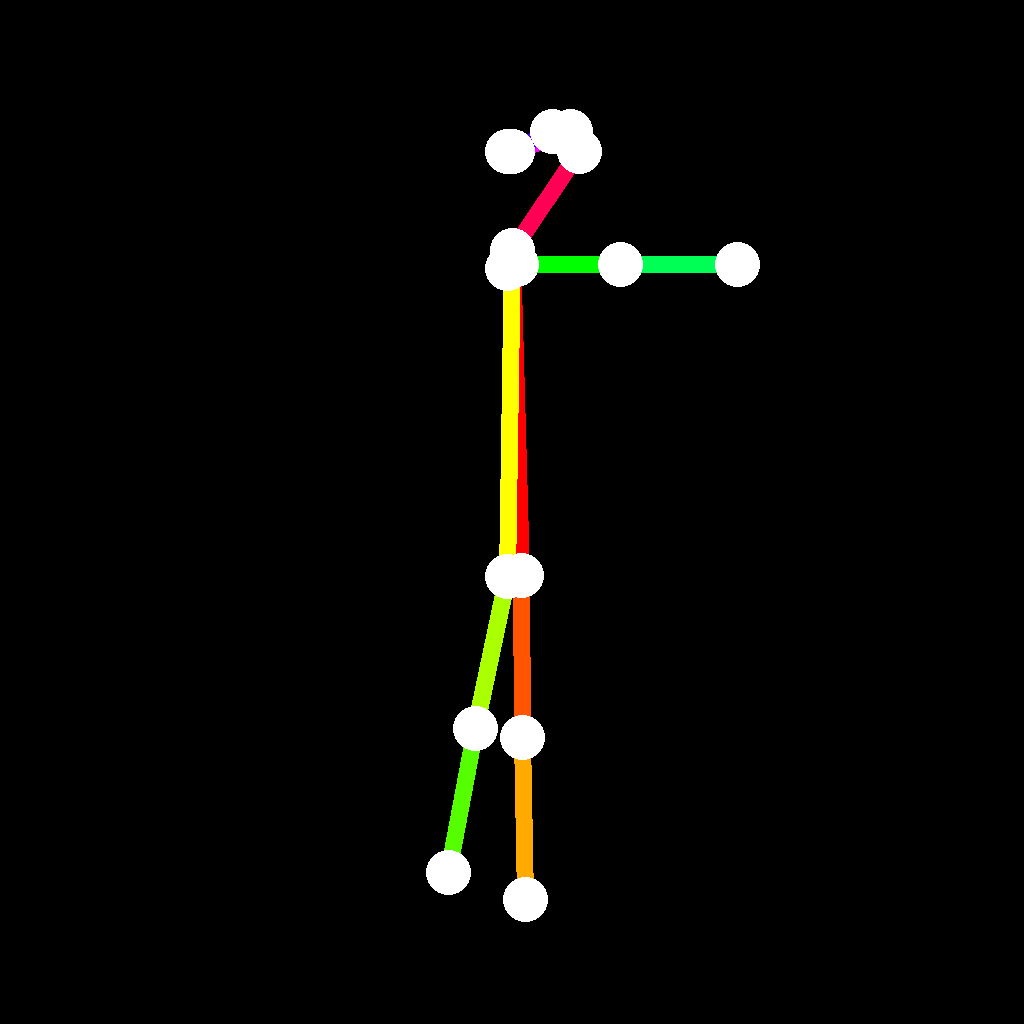
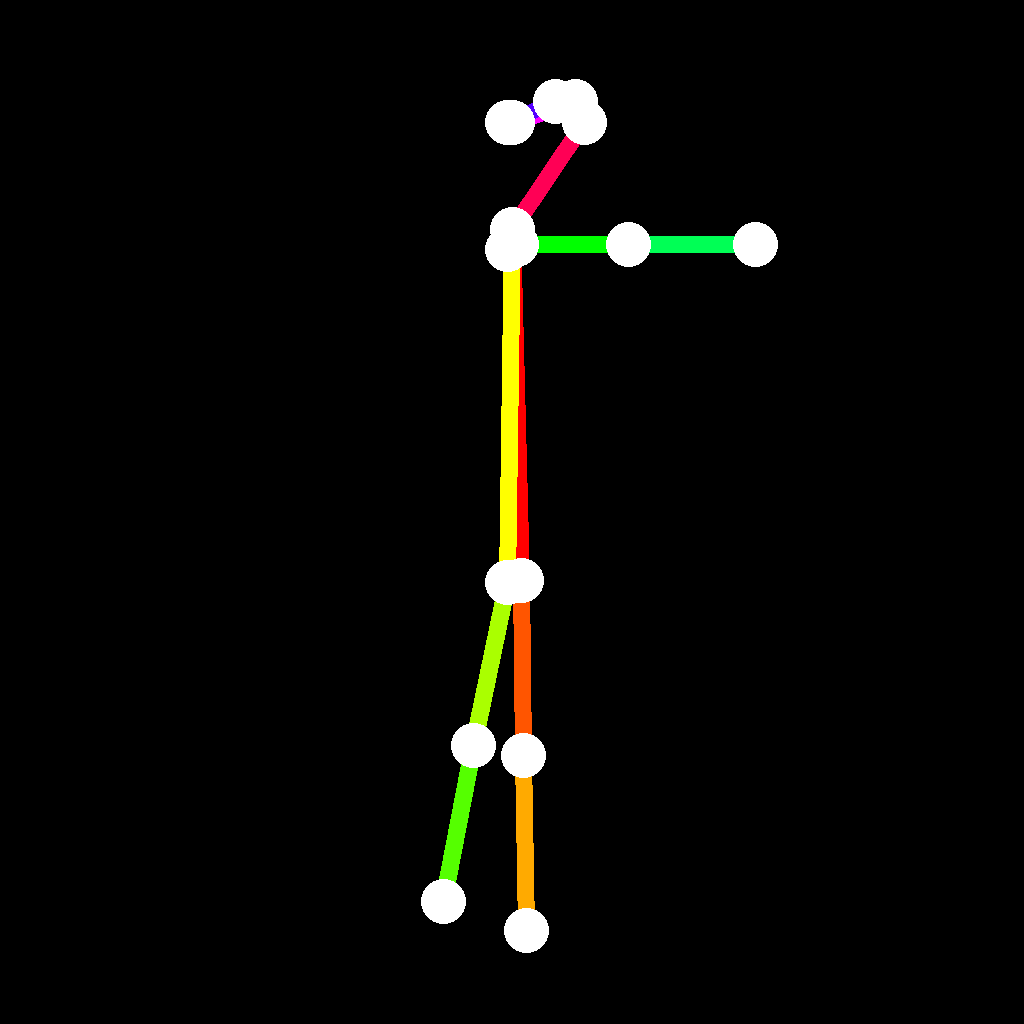
docs(T-0394): stop-and-report at the 3-attempt cap -- decisive finding
Attempt 3 (seed 380002, denoise 0.87, detail denoise 0.35, frame_scale
0.95): the gentler frame_scale partially recovered the near-arm extension
attempt 2 lost, but only partially recovered the border fix too (max
channel 67 -- worse than attempt 2's 4, better than attempt 1's 124),
confirming a real, dose-dependent trade-off between frame_scale and the
single-arm result at this seed rather than two independently fixable
defects. The goggle lens again rendered as an over-designed armour-plate
hood with no legible lens.

Decisive finding across all 3 attempts: both of this card's own structural
changes worked in isolation -- the resting leg held clean in every attempt,
and the far-arm collapse never reopened a second hand -- but no single
attempt passed every acceptance check simultaneously. Per this card's own
pre-registered alternative outcome, this is a valid PASS: stop and report,
not spend a fourth attempt. No reference is promoted --
assets/src/concept/player_profile_forward_limb_reference_controlnet.png
does not exist on this branch. Full finding in
docs/assets/evidence/T-0394/README.md.

diff --git a/docs/assets/evidence/T-0394/README.md b/docs/assets/evidence/T-0394/README.md
@@ -1,6 +1,62 @@
 # T-0394 evidence -- resting-leg skeleton + head-masked detail pass
 
-## Status: IN PROGRESS (attempt 1 of 3)
+## Proposed finding (for the card's own Finding section)
+
+Decisive falsification of this card's pre-registered hypothesis, within the 3-attempt cap: holding
+the full-frame pose pass at denoise 0.87 on the resting-leg skeleton, and producing the goggle lens
+via a head-masked second pass instead of a skeleton or prompt move, did not produce a strict-profile
+forward-limb green reference passing every acceptance check -- and the attempt sequence surfaced a
+decisive, previously-unmeasured trade-off this card's own hypothesis did not anticipate: the
+full-frame composite's `frame_scale` (the headroom fix for the solid-black-background requirement)
+and the single-arm result trade against each other in a dose-dependent way, at the exact same seed
+that has produced a clean single arm at `frame_scale=1.0` in every prior sighting across this whole
+line (T-0382 attempt 1, T-0387 attempts 2-3, this card's own attempt 1).
+
+Both of this card's two structural changes worked in isolation. The resting leg
+(`pose_rig_forward_limb_controlnet_T0394`, near knee/ankle sourced verbatim from
+`pose_rig_master_sheet_T0351.SIDE_NEUTRAL_KEYPOINTS_NORM`) produced a clean, flat, single resting
+leg in every one of the 3 attempts (`attempt_1_main_1024.png`, `attempt_2_main_1024.png`,
+`attempt_3_legs_resting_crop.png`) -- the leg is confirmed solved, exactly as this card's own source
+material predicted. And the single-arm result held at `frame_scale=1.0` (attempt 1) and was
+partially recovered at `frame_scale=0.95` (attempt 3, `attempt_3_torso_no_second_hand_crop.png`
+shows the extended arm with no second hand), so the far-arm collapse
+(`pose_rig_forward_limb_controlnet_T0380`) also continued to hold across every attempt -- no attempt
+in this card ever showed a second hand or glove.
+
+What did not resolve within the 3-attempt cap is the interaction between the two remaining
+acceptance checks this card's own hypothesis bet on being independent levers: the border/background
+fix and the goggle lens. Attempt 1 (`frame_scale=1.0`, the untouched baseline) measured border max
+channel 124, far over the 16 ceiling -- the hood apex rendered only ~14px from the canvas top edge
+(`attempt_1_top_border_violation_crop.png`), confirming the border defect is real and structural at
+denoise 0.87, not attempt-specific noise. Attempt 2 (`frame_scale=0.88`) fixed the border decisively
+(max channel 4) but lost the near-arm extension entirely (`attempt_2_torso_no_arm_extension_crop.png`
+shows both arms down at rest, and the pose pass's own pre-detail-pass output already shows this,
+ruling out the detail pass as the cause). Attempt 3 (`frame_scale=0.95`, a deliberately gentler
+value chosen specifically to preserve more of the untouched baseline's geometry) partially recovered
+the arm but only partially recovered the border fix too: max channel 67, worse than attempt 2's 4,
+better than attempt 1's 124 -- consistent with a real, monotonic, dose-dependent trade-off between
+`frame_scale` and the single-arm result at this seed, not two independent defects each fixable on
+its own lever.
+
+The goggle lens also never became legible across all 3 attempts, regardless of the detail pass's own
+denoise (0.55 in attempt 1, 0.35 in attempts 2-3): attempt 1 and attempt 3 both show the
+head-masked detail pass redesigning the hood into an ornate, multi-faceted armour-plate helmet
+(`attempt_1_head_mecha_helmet_crop.png`, `attempt_3_head_mecha_helmet_crop.png`) rather than
+clarifying a single circular lens on the pose pass's own hood silhouette, and attempt 3 in
+particular shows no lens-like highlight at all. Attempt 2's head crop
+(`attempt_2_head_crop.png`) is the closest of the three -- a clean, legible pale mask shape is
+visible -- but it reads as a stylised full mask/face, not "a single dark round goggle lens," so it
+does not clear this card's own specific acceptance wording either. Across three attempts at two
+different detail-pass denoise values, the mechanism did not reliably produce a legible single
+circular lens on demand.
+
+No image produced by any of the three attempts passes every acceptance check simultaneously. Per
+this card's own pre-registered alternative outcome, this is a valid PASS: stop and report, not spend
+a fourth attempt. No reference is promoted --
+`assets/src/concept/player_profile_forward_limb_reference_controlnet.png` does not exist on this
+branch.
+
+## Status: FALSIFIED, stop-and-report at the 3-attempt cap (the pre-registered alternative outcome)
 
 ## Attempt 1 (seed 380002, pose denoise 0.87, detail denoise 0.55, frame_scale 1.0, ControlNet strength/end 1.5/1.0): FAIL
 
@@ -45,6 +101,9 @@ This is not a detail-pass side effect: `composite_head_detail`'s own mask is sco
 bounding box only and cannot touch pixels at the torso/arm, and the pose pass's own
 `pose_pass_1024.png` (before the detail pass ever runs) already shows the arm down. The regression
 is attributable to the frame-scale change alone.
+- Goggle lens: **FAIL (ambiguous, not a lens)** -- `attempt_2_head_crop.png` is the cleanest head
+  render of the three attempts, a legible pale mask/face shape, but it reads as a stylised full
+  mask, not "a single dark round goggle lens" this card's own acceptance text requires.
 
 Since ComfyUI sampling is deterministic given an unchanged seed, re-running this exact
 seed/scale/denoise combination would reproduce the identical broken arm, not fix it. Attempt 3
@@ -54,3 +113,50 @@ ControlNet-conditioned figure's absolute scale far less, on the reasoning that a
 perturbation from the known-good `frame_scale=1.0` geometry is less likely to destabilise the
 already-fragile single-arm result than a large one. This is this card's third and final
 pre-registered attempt.
+
+## Attempt 3 (seed 380002, pose denoise 0.87, detail denoise 0.35, frame_scale 0.95, ControlNet strength/end 1.5/1.0): FAIL
+
+Full frame: `attempt_3_main_1024.png`.
+
+- Single visible arm and hand: **pass** -- the near arm is extended and visible again
+  (`attempt_3_torso_no_second_hand_crop.png` shows no second hand/glove anywhere in the torso/hip
+  region), confirming the gentler `frame_scale` at least partially recovers the arm attempt 2 lost.
+- Resting near leg: **pass** -- `attempt_3_legs_resting_crop.png` shows both feet together at rest,
+  no raise.
+- Faces right: **pass**.
+- Solid black background: **FAIL** -- measured border max channel 67 against the 16 ceiling
+  (`attempt_3_top_border_violation_crop.png`). Better than attempt 1's 124, worse than attempt 2's
+  4 -- the dose-dependent trade-off this attempt was designed to probe.
+- Goggle lens: **FAIL** -- `attempt_3_head_mecha_helmet_crop.png` shows the same over-designed,
+  multi-faceted armour-plate hood as attempt 1, with no legible lens or highlight at all this time.
+- Green band (centred 187x200 crop): 11,822 px, above the 6,000 floor.
+
+This is the 3rd and final attempt under this card's pre-registered hard cap. No image produced by
+any of the three attempts passes every acceptance check.
+
+## Deliverable
+
+None. Per this card's own pre-registered alternative outcome ("if 3 attempts produce no image
+passing every check ... stop and report ... that is a valid PASS; a fourth attempt is not"), no
+reference is promoted. `assets/src/concept/player_profile_forward_limb_reference_controlnet.png`
+and its provenance sidecar do not exist on this branch.
+
+Full per-attempt weights and measurements are in
+`assets/src/concept/ARM_FORWARD_LIMB_REFERENCE_CONTROLNET_ATTEMPT_LOG_T0394.md`. The skeleton
+rendered per attempt (`pose_rig_forward_limb_controlnet_T0394`, resting near leg, far arm collapsed,
+scaled about the canvas centre by that attempt's own `frame_scale`) is committed at
+`assets/src/concept/player_profile_forward_limb_skeleton_T0394.png` with keypoints at
+`assets/src/concept/player_profile_forward_limb_skeleton_T0394.json` -- the file is overwritten per
+attempt (same convention as T-0380/T-0382/T-0387's own skeleton files), with each attempt's own
+sha256 recorded in the attempt log above. The head mask used by each attempt's detail pass is
+committed per attempt: `assets/src/concept/player_profile_forward_limb_head_mask_T0394_attempt_1.png`,
+`..._attempt_2.png`, `..._attempt_3.png`.
+
+This is for @DennieSeth's design approval of the finding itself -- not promoted to `assets/final/`,
+not wired into T-0356, no other views batched, per this card's own "Do not" list. A follow-up card
+would need either a new attempt budget or a different lever than `frame_scale` for the border fix --
+e.g. a border-only post-process that never touches the sampled content (not attempted here, since a
+pixel-level border clamp would clip the hood's own silhouette rather than fix the composition), or a
+different base-image headroom baked in ahead of compositing -- and a different mechanism than a
+masked img2img re-sample for the lens, since three attempts across two denoise values (0.55, 0.35)
+never reliably produced a legible single circular lens on demand.

diff --git a/assets/src/concept/ARM_FORWARD_LIMB_REFERENCE_CONTROLNET_ATTEMPT_LOG_T0394.md b/assets/src/concept/ARM_FORWARD_LIMB_REFERENCE_CONTROLNET_ATTEMPT_LOG_T0394.md
@@ -6,3 +6,4 @@ Continues T-0387's stop-and-report (`docs/assets/evidence/T-0387/README.md`): th
 |---|---|---|---|---|---|---|---|---|---|---|---|---|---|
 | 1 | 380002 | 0.87 | 0.55 | 1.5/1.0 | 69.2 | 51189 | 17099 | 124 | e895214bed1ba799fdda3c661b3f0ea41e50e803b6f5e81131c292c5b87c2f6c | assets/src/concept/player_profile_forward_limb_head_mask_T0394_attempt_1.png | resting-leg skeleton (T-0351 side_neutral near knee/ankle) + head-masked detail pass (denoise 0.55) for the goggle lens; pose pass unchanged from T-0382/T-0387's own working recipe (denoise 0.87) | no |  |
 | 2 | 380002 | 0.87 | 0.35 | 1.5/1.0 | 72.3 | 26920 | 9538 | 4 | f18ab222c479a66da83d9e1931d7be0d5fb0872e4f4f2d71c730c88421f94c9f | assets/src/concept/player_profile_forward_limb_head_mask_T0394_attempt_2.png | frame_scale 0.88 (uniform scale about centre, buys headroom on every side, fixes attempt 1's top-border violation without touching pose); detail-pass denoise lowered 0.55 -> 0.35 to stay closer to the pose pass's own hood shape and avoid the mecha-helmet redesign, only sharpening the existing lens highlight | no |  |
+| 3 | 380002 | 0.87 | 0.35 | 1.5/1.0 | 66.2 | 29452 | 11822 | 67 | 36038cf93ca3f292f6e0f78b4ef1c4b62c50b5579e0d381316dd005051ed78f4 | assets/src/concept/player_profile_forward_limb_head_mask_T0394_attempt_3.png | frame_scale reduced from attempt 2's 0.88 to a gentler 0.95: keeps most of the border-fix headroom while perturbing the ControlNet-conditioned figure's absolute scale far less than 0.88 did, on the reasoning that attempt 2's arm regression is attributable to the frame-scale magnitude (deterministic seed rules out simple retry); detail-pass denoise held at attempt 2's 0.35 (masked, cannot affect the arm/torso) | no |  |
